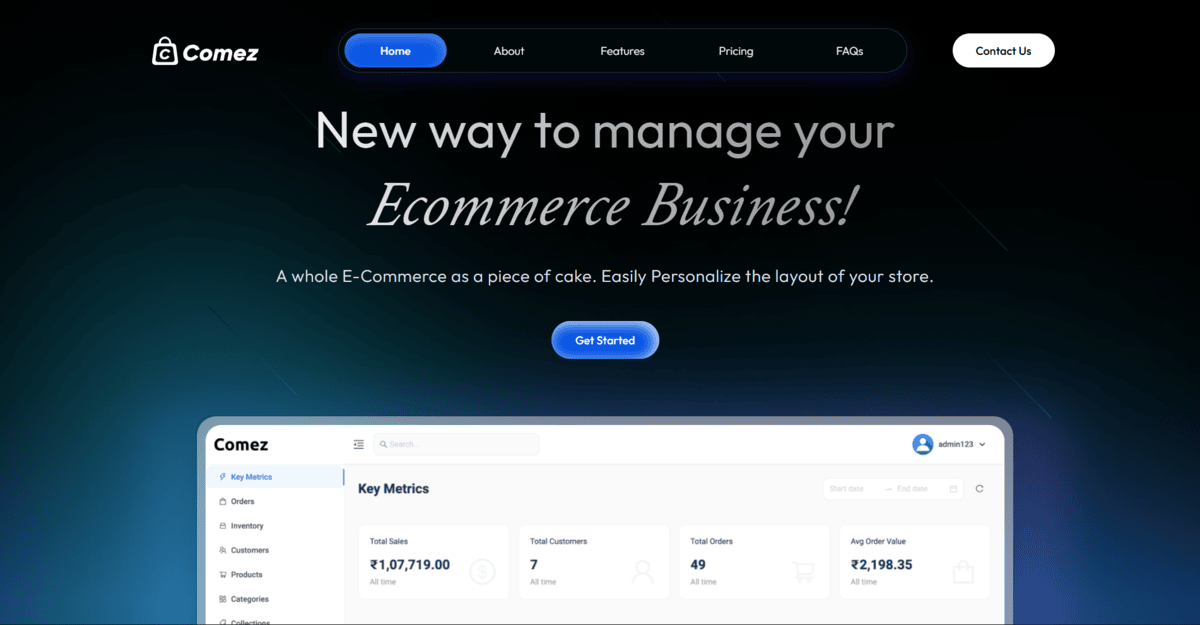
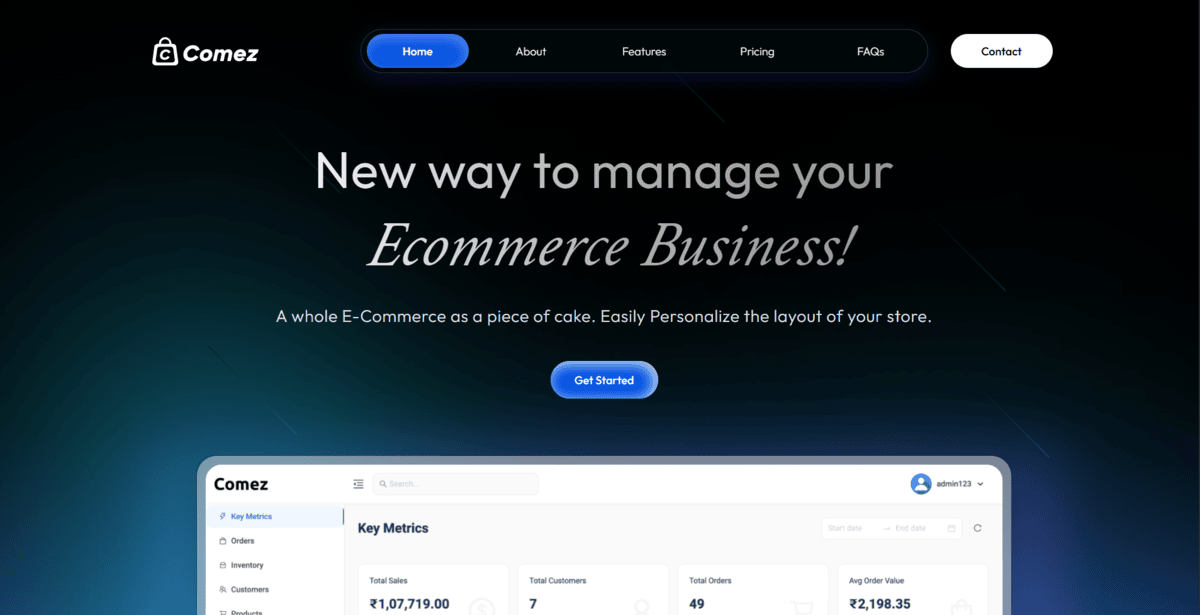
Added Contents

diff --git a/src/components/Pricing.jsx b/src/components/Pricing.jsx
@@ -87,96 +87,81 @@ const Pricing = () => {
 
   return (
     <div id="pricing" className="relative bg-black min-h-[calc(100vh-6rem)] py-4 md:pt-12 lg:pt-18 xl:pt-24 px-4">
-      <div className="w-full max-w-7xl  mx-auto">
-        <div className="text-center  mb-16">
+      <div className="w-full max-w-7xl mx-auto">
+        <div className="text-center mb-16">
           <h2 className="text-7xl font-medium font-['Outfit'] bg-gradient-to-r from-white to-[#B4B2B2] bg-clip-text text-transparent mb-8 pb-8">Pricing</h2>
-         { /*<div className="text-white text-lg font-medium">
-                Annually
-                </div> */}
+        </div>
+
+        <div className="flex flex-col md:flex-row items-stretch gap-16 w-full">
+          {plans.map((plan, index) => (
+            <div
+              key={index}
+              className="relative rounded-3xl overflow-hidden bg-black w-auto md:w-auto flex-shrink-0 border-t-2 border-b-2 border-[#949090]/40 before:content-[''] before:absolute before:left-0 before:bottom-0 before:h-[30%] before:w-[1px] before:bg-[#949090]/40 before:z-10"
+            >
+              <div className="w-full">
+                <div className={`${index === 1
+                  ? 'py-8 px-6 w-full bg-gradient-to-r from-black via-[#0D54DB] to-black mx-0 md:mx-[-8px] md:w-[calc(100%+16px)] rounded-3xl shadow-[0px_21px_88.7px_-43px_rgba(0,88,255,0.5)]'
+
+                  : 'py-8 px-6 w-full bg-black rounded-t-3xl'}`}
+                >
+                  <h3 className="text-2xl font-bold text-white text-center">
+                    {plan.title}
+                  </h3>
+                </div>
               </div>
 
-              <div className="flex flex-col md:flex-row  items-stretch gap-16 w-full ">
-                {plans.map((plan, index) => (
-                <div
-                  key={index}
-                  className={`relative rounded-3xl overflow-hidden bg-black w-full md:w-auto h-[800px] flex-shrink-0 border-t-2 border-b-2 border-b-t[40px] border-[#949090] `}
-                >  <div className="w-full">
-                  <div
-                    className={`${index === 1
-                    ? 'py-8 px-6 w-full bg-gradient-to-r from-black via-[#0D54DB] to-black mx-0 md:mx-[-8px] md:w-[calc(100%+16px)] rounded-3xl shadow-[0px_21px_88.7px_-43px_rgba(0,88,255,0.5)]'
-                    : (index === 0 || index === 2)
-                      ? `${index === 2 ? 'py-8' : 'py-8'} px-6 w-full bg-black rounded-t-3xl`
-                      : 'py-8 px-6 w-full'
-                    }`}
-                  >
-
-                    <h3 className="text-2xl font-bold text-white  text-center">
-                    {plan.title}
-                    </h3>
-                  </div>
-                  </div>
-
-                  <div className="flex flex-col items-center justify-center px-10 my-10">
-                  <div className="relative text-center">
-                    <div
-                    className={`flex  items-baseline justify-center space-x-3 ${index === 2 ? 'mb-0' : 'mb-2'
-                      }`}
-                    >
-
-
+              <div className="flex flex-col items-center justify-center px-10 my-10">
+                <div className="relative text-center">
+                  <div className={`flex items-baseline justify-center space-x-3 ${index === 2 ? 'mb-0' : 'mb-2'}`}>
                     <span className={`font-semibold ${index === 2 ? 'opacity-70 text-2xl md:text-4xl pt-2' : 'text-2xl md:text-4xl text-white'}`}>
-                      {isYearly ? plan.yearlyPrice : plan.monthlyPrice}
+                      {isYearly ? (plan.yearlyPrice || '') : (plan.monthlyPrice || '')}
                     </span>
                     {plan.yearlyOriginalPrice && (
                       <span className="text-gray-400 line-through text-lg md:text-2xl">
-                      {isYearly ? plan.yearlyOriginalPrice : plan.monthlyOriginalPrice}
+                        {isYearly ? plan.yearlyOriginalPrice : plan.monthlyOriginalPrice}
                       </span>
                     )}
-
-                    </div>
-                    {index !== 2}
-                    {plan.description && (
-                    <span className={`block whitespace-nowrap ${index === 2 ? 'text-lg md:text-2xl text-white' : 'text-lg md:text-2xl text-gray-400'} `}>
+                  </div>
+                  
+                  {plan.description && (
+                    <span className={`block whitespace-nowrap ${index === 2 ? 'text-lg md:text-2xl text-white' : 'text-lg md:text-2xl text-gray-400'}`}>
                       {plan.description}
                     </span>
-                    )}
-                    {plan.SubTitle && (
+                  )}
+                  
+                  {plan.SubTitle && (
                     <span className={`block ${index === 2 ? 'text-lg md:text-2xl text-white' : 'text-gray-300 text-sm'} my-2`}>
                       {plan.SubTitle}
                     </span>
-                    )}
-                  </div>
+                  )}
+                </div>
+              </div>
 
-                  </div>
-
-                  <ul className="space-y-10 mb-10 flex-grow text-left w-full pl-8 mt-8">
-                  {plan.features.map((feature, i) => (
-                    <li key={i} className="flex items-start ">
+              <ul className="space-y-4 mb-10 flex-grow text-left w-full pl-8 mt-8">
+                {plan.features.map((feature, i) => (
+                  <li key={i} className="flex items-start">
                     <FiCheck className="text-white mt-1 mr-3 flex-shrink-0" />
                     <span className="text-gray-300 text-lg md:text-xl pr-8">{feature}</span>
-                    </li>
-                  ))}
-                  </ul>
+                  </li>
+                ))}
+              </ul>
 
-                  <div
-                  className={`absolute w-full md:w-[520px] h-[150px] -right-12 md:-right-24 -bottom-12 bg-gradient-to-b from-[#0754E3] to-[#042E7D] blur-[150px] -rotate-15 z-0 ${index === 1 ? 'opacity-80' : 'opacity-60'
-                    }`}
-                  />
-                  <div className="w-full flex justify-center pt-8">
-                  <button 
-                   onClick={() => {
-                  const planTitle = plans[index].title;
-                  const price = isYearly ? plans[index].yearlyPrice : plans[index].monthlyPrice;
-                
-                  const message =
-                    planTitle === "Customized"
+              <div className={`absolute w-full md:w-[520px] h-[150px] -right-12 md:-right-24 -bottom-12 bg-gradient-to-b from-[#0754E3] to-[#042E7D] blur-[150px] -rotate-15 z-0 ${index === 1 ? 'opacity-80' : 'opacity-60'}`} />
+              
+              <div className="w-full flex justify-center pt-8 pb-12 relative z-10">
+                <button 
+                  onClick={() => {
+                    const planTitle = plans[index].title;
+                    const price = isYearly ? plans[index].yearlyPrice : plans[index].monthlyPrice;
+                  
+                    const message = planTitle === "Customized"
                       ? `Hello! I'm interested in the ${planTitle} plan from Comez. Could you please share more details about the available options?`
                       : `Hello! I'm interested in the ${planTitle} plan from Comez, priced at ${price}. Could you please provide more details about the features and next steps?`;
-                
-                  const whatsappUrl = `https://wa.me/+919698739898?text=${encodeURIComponent(message)}`;
-                  window.open(whatsappUrl, "_blank");
-                }}
-                 className={`group relative px-6 py-3 w-[200px] h-[60px] text-x font-medium ${index === 1 ? 'bg-[#0754E3] text-white' : 'bg-white text-black'} shadow-[inset_-12px_4px_17.1px_rgba(255,255,255,0.25),inset_-3px_4px_20px_rgba(255,255,255,0.75)] rounded-[85px] transition-all duration-300 flex items-center justify-center hover:translate-y-[-2px] hover:shadow-[inset_-12px_4px_17.1px_rgba(255,255,255,0.25),inset_-3px_5px_20px_rgba(255,255,255,0.75)]`}
+                  
+                    const whatsappUrl = `https://wa.me/+919698739898?text=${encodeURIComponent(message)}`;
+                    window.open(whatsappUrl, "_blank");
+                  }}
+                  className={`group relative px-6 py-3 w-[200px] h-[60px] text-x font-medium ${index === 1 ? 'bg-[#0754E3] text-white' : 'bg-white text-black'} shadow-[inset_-12px_4px_17.1px_rgba(255,255,255,0.25),inset_-3px_4px_20px_rgba(255,255,255,0.75)] rounded-[85px] transition-all duration-300 flex items-center justify-center hover:translate-y-[-2px] hover:shadow-[inset_-12px_4px_17.1px_rgba(255,255,255,0.25),inset_-3px_5px_20px_rgba(255,255,255,0.75)]`}
                   onMouseEnter={(e) => {
                     const rect = e.target.getBoundingClientRect();
                     const isHoveringFromBottom = e.clientY >= rect.bottom;
@@ -197,7 +182,6 @@ const Pricing = () => {
                 </button>
               </div>
             </div>
-
           ))}
         </div>
       </div>

diff --git a/src/components/Navbar.jsx b/src/components/Navbar.jsx
@@ -97,11 +97,46 @@ const Navbar = () => {
     }
   }, []);
 
+  // Listen to Lenis scroll if available, else fallback to window scroll
+  useEffect(() => {
+    if (lenis && isReady) {
+      const onLenisScroll = ({ scroll }) => {
+        if (window.innerWidth >= 768) {
+          setScrolled(scroll > 10);
+        }
+      };
+      lenis.on('scroll', onLenisScroll);
+      // Set initial state
+      if (window.innerWidth >= 768) {
+        setScrolled(lenis.scroll > 10);
+      }
+      return () => {
+        lenis.off('scroll', onLenisScroll);
+      };
+    } else {
+      const handleScroll = () => {
+        if (window.innerWidth >= 768) {
+          setScrolled(window.scrollY > 10);
+        }
+      };
+      window.addEventListener('scroll', handleScroll, { passive: true });
+      // Set initial state
+      if (window.innerWidth >= 768) {
+        setScrolled(window.scrollY > 10);
+      }
+      return () => window.removeEventListener('scroll', handleScroll);
+    }
+  }, [lenis, isReady]);
+
   return (
-    <nav className="fixed w-full h-28 left-0 md:top-4 top-0 z-50 bg-transparent mx-auto">
-      <div className="h-24 md:h-full w-full max-w-7xl md:max-w-9xl mx-auto flex items-center justify-between pl-2">
+    <nav
+      className={`fixed w-full h-28 left-0 z-50 bg-transparent mx-auto ${
+        scrolled ? 'top-0' : 'md:top-4 top-0'
+      }`}
+    >
+      <div className="h-24 md:h-full w-full max-w-7xl md:max-w-9xl mx-auto flex items-center justify-between pl-2 md:bg-transparent bg-[rgba(1,34,50,0.2)] backdrop-blur-[15px] md:backdrop-blur-[5px] shadow-[0_8px_32px_0_rgba(31,38,135,0.37)] md:shadow-none border-b border-[rgba(255,255,255,0.1)] md:border-b-0">
         {/* Logo */}
-        <div className="flex-shrink-0 pl-2 md:pl-0 lg:pl-0">
+        <div className="flex-shrink-0 pl-2 md:pl-0 lg:pl-0 ">
           <img
             src={Logo}
             alt="Comez Logo"
@@ -123,13 +158,13 @@ const Navbar = () => {
                 }}
                 className={`relative flex items-center justify-center w-36 h-12 mx-2 rounded-[30px] cursor-pointer transition-all duration-300 ${
                   activeLink === link.name
-                    ? 'bg-[#0754E3] shadow-[inset_-4px_7px_20px_rgba(255,255,255,0.3)]'
-                    : 'bg-transparent hover:bg-[#0754E3]/20'
+                  ? 'bg-[#0754E3] shadow-[inset_-4px_7px_20px_rgba(255,255,255,0.3)]'
+                  : 'bg-transparent hover:bg-[#0754E3]/20'
                 }`}
-              >
+                >
                 <span
                   className={`text-md text-white font-light ${
-                    activeLink === link.name ? 'font-medium' : ''
+                  activeLink === link.name ? 'font-medium' : ''
                   }`}
                 >
                   {link.name}
@@ -139,24 +174,24 @@ const Navbar = () => {
           </div>
         </div>
 
-        {/* Contact Button - Desktop */}
+            {/* Contact Button - Desktop */}
         <div className="hidden md:block">
           <a
             href="tel:+919698739898"
             className="flex items-center justify-center w-36 h-12 bg-white text-black rounded-[30px] text-md font-medium hover:text-white hover:bg-gray-700 transition-colors duration-200"
           >
-            Contact Us
+            Contact 
           </a>
         </div>
-
+        
         {/* Mobile Menu Button */}
-        <div className="md:hidden z-50 pr-2" >
+        <div className="md:hidden z-50 pr-2 ">
           <button
             onClick={() => setIsOpen(!isOpen)}
             className="p-2 text-white focus:outline-none"
             aria-label="Toggle menu"
             aria-expanded={isOpen}
-          >
+            >
             {isOpen ? <FiX className="h-6 w-6" /> : <FiMenu className="h-6 w-6" />}
           </button>
         </div>
@@ -182,7 +217,7 @@ const Navbar = () => {
                     : 'bg-transparent hover:bg-[#0754E3]/20'
                 }`}
                 aria-current={activeLink === link.name ? 'page' : undefined}
-              >
+                >
                 {link.name}
               </button>
             ))}
@@ -190,8 +225,8 @@ const Navbar = () => {
               href="tel:+919698739898"
               className="w-full px-6 py-5 text-2xl font-light text-white rounded-[30px] transition-all duration-300 text-center mt-4 "
               onClick={() => setIsOpen(false)}
-            >
-              Contact Us
+              >
+              Contact 
             </a>
           </div>
         </div>

diff --git a/src/components/Features.jsx b/src/components/Features.jsx
@@ -196,8 +196,8 @@ const FeatureSection = () => {
                   <div className="flex items-center mb-3">
                     <div className="mr-3">
                       <div
-                        className={`flex items-center justify-center ${feature.title.includes("SEO") ? "w-18 h-18 " : "w-14 h-14"
-                          }`}
+                        className= "flex items-center justify-center mt-6 w-14 h-14 md:w-20 md:h-20"
+                          
                       >
                         <img
                           src={feature.icon}
@@ -246,9 +246,9 @@ const FeatureSection = () => {
 
 
         <div className="md:container mx-auto relative z-10">
-          <div className="flex flex-col md:flex-row items-center justify-between gap-10">
+          <div className="flex flex-col md:flex-row items-left justify-between gap-10">
             {/* Logos */}
-            <div className="flex gap-6 md:gap-12 justify-center align-center md:justify-start w-full md:w-auto md:pl-20">
+            <div className="flex gap-6 md:gap-12 justify-left align-left md:justify-left w-full md:w-auto md:pl-32">
               <img src={Android} alt="Android" className="w-24 h-24 md:w-36 md:h-36 object-contain" />
               <img src={Apple} alt="Apple" className="w-20 h-20 md:w-32 md:h-32 object-contain" />
               <img src={Cloud} alt="Cloud" className="w-24 h-24 md:w-36 md:h-36 object-contain" />

diff --git a/src/components/About.jsx b/src/components/About.jsx
@@ -13,7 +13,7 @@ const features = [
   {
     icon: Why1,
     title: "No Development Charges*",
-    description: "We have worked over last two years to provide you an precise Ecommerce Application which covers all the modules with Analytic Reports."
+    description: "We have worked over the last two years to provide you with a precise eCommerce application that covers all modules and includes analytic reports. <br><br><span class='text-base text-gray-400'><strong>*</strong> Customization charges may apply.</span>"
   },
   {
     icon: Why2,
@@ -56,7 +56,7 @@ const About = () => {
                     {feature.title}
                   </h3>
                 </div>
-                <p className="text-[#C1C1C6] md:pl-4 text-xl md:text-2xl leading-relaxed text-center md:text-left">{feature.description}</p>
+                <p className="text-[#C1C1C6] md:pl-4 text-xl md:text-2xl leading-relaxed text-center md:text-left" dangerouslySetInnerHTML={{ __html: feature.description }}></p>
               </div>
             </div>
           ))}
